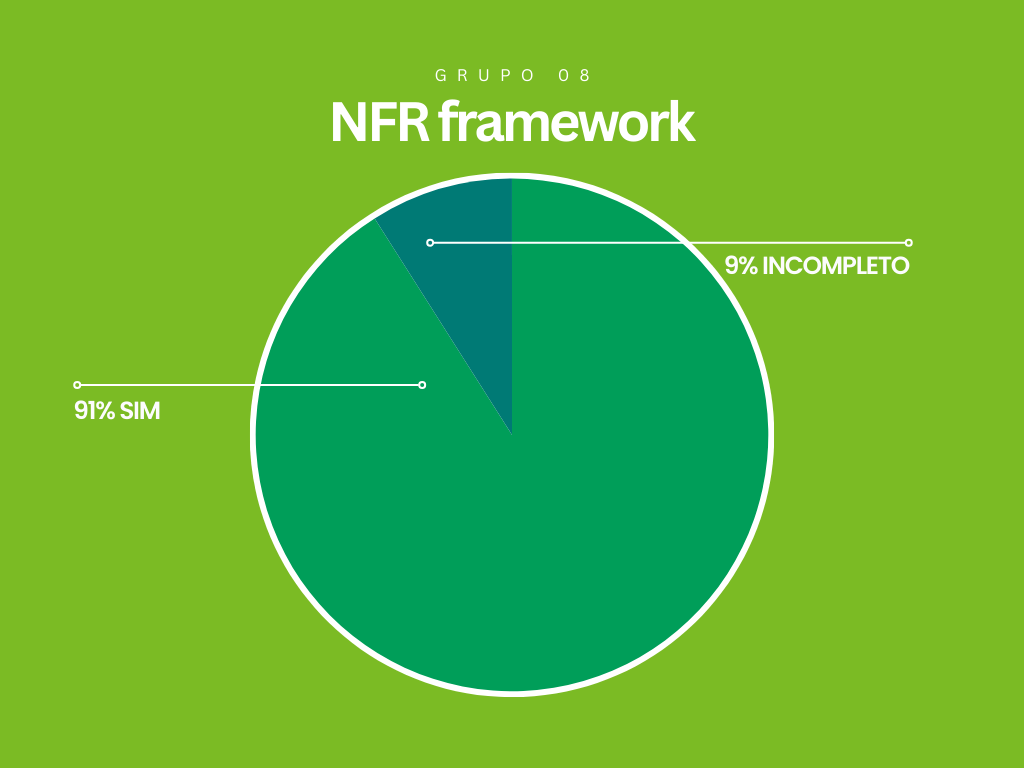
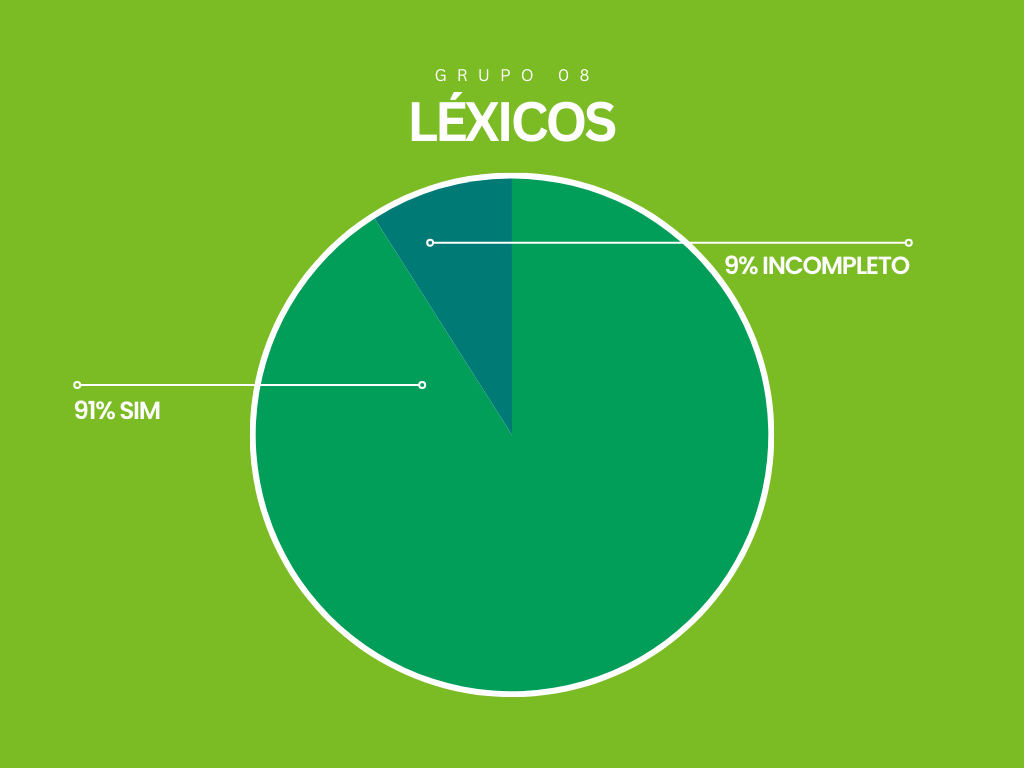
.

Changed region(s): [[0.3125, 0.125, 0.6875, 0.1875]]

diff --git a/docs/Verificação/Grupo 8/Entrega 3 - Modelagem/lexicos.md b/docs/Verificação/Grupo 8/Entrega 3 - Modelagem/lexicos.md
@@ -37,10 +37,10 @@ A tabela 1 apresenta o checklist de verificação desenvolvido com base no artef
 
 ## Gráfico
 
-Nesta seção, serão apresentados os resultados obtidos na verificação do artefato "[Rich Picture]()" na forma de um gráfico de pizza, onde são apresentadas a quantidade de "sim", "não", "não se aplica" e "incompleto" obtidos na verificação.
+Nesta seção, serão apresentados os resultados obtidos na verificação do artefato "[Léxicos]()" na forma de um gráfico de pizza, onde são apresentadas a quantidade de "sim", "não", "não se aplica" e "incompleto" obtidos na verificação.
 
 <div align="center">
-<font size="3"><p style="text-align: center"><b>Figura 1:</b> Resultados do artefato Ferramentas</p></font>
+<font size="3"><p style="text-align: center"><b>Figura 1:</b> Resultados do artefato</p></font>
 
  <img src="https://github.com/Requisitos-de-Software/2024.1-Consumidor.gov/blob/main/assets/img/verifica%C3%A7%C3%A3o/lexicos.png?raw=true" style="width: 45%;">
 
